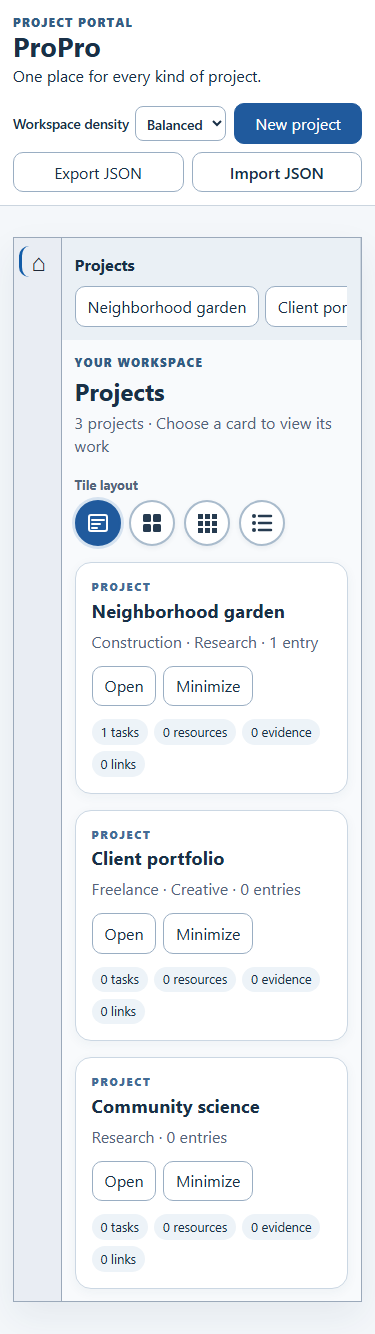
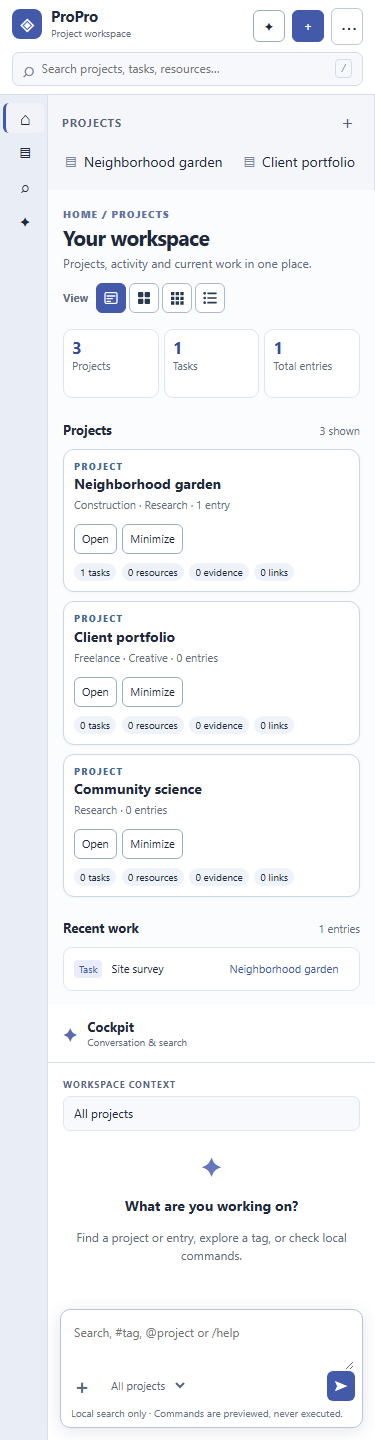
feat(propro): build refined workspace shell and local composer
Change-Level: RUN

Dev-Docs: updated

Validation: npm test 2/2; Chromium browser 6/6; viewport and axe checks at 375/390/768/1280/1440/1920; inspected 390/1280/1440 screenshots

diff --git a/styles.css b/styles.css
@@ -7,12 +7,6 @@ button:focus-visible, input:focus-visible, select:focus-visible, .import-label:f
 .header-actions > label:first-child { display:flex; align-items:center; gap:.4rem; font-size:.85rem; }
 .header-actions select { color:var(--ink); background:#fff; border:1px solid #9aaec3; border-radius:8px; padding:.4rem; }
 .cockpit-workbench__activity-button[data-activity=home] span { display:inline-block; transform:scale(1.5); font-weight:700; }
-html[data-density=refined] .site-header { padding-block:.5rem; }
-html[data-density=refined] #content.cockpit-workbench__content { padding:.7rem; }
-html[data-density=refined] .cards { gap:.65rem; }
-html[data-density=refined] .project-card { border-radius:10px; padding:.7rem; }
-html[data-density=refined] .project-card[data-selected=true] { padding:calc(.7rem - 1px); }
-html[data-density=refined] .card-meta { margin-top:.55rem; }
 .site-header h1 { margin:0; font-size:clamp(1.6rem,2.5vw,2rem); line-height:1.1; } .site-header p { margin:.15rem 0 0; } .eyebrow { margin:0 0 .2rem; text-transform:uppercase; letter-spacing:.12em; color:#335c84; font-size:.72rem; font-weight:800; }
 .header-actions,.row { display:flex; flex-wrap:wrap; align-items:center; gap:.5rem; } .import-label { display:inline-flex; align-items:center; position:relative; border:1px solid #9aaec3; background:#fff; border-radius:10px; padding:.48rem .75rem; cursor:pointer; } .import-label input { position:absolute; inset:0; width:100%; opacity:0; cursor:pointer; }
 .status { min-height:1.4rem; margin:.25rem clamp(.8rem,3vw,2.5rem); color:#245d3d; }
@@ -39,3 +33,116 @@ html[data-density=refined] .card-meta { margin-top:.55rem; }
 dialog { border:1px solid var(--border); border-radius:16px; width:min(92vw,520px); max-height:90vh; overflow:auto; padding:1.4rem; color:var(--ink); } dialog::backdrop { background:#152c49aa; } dialog h2 { margin-top:0; } .stack { display:grid; gap:1rem; }
 @media(max-width:1050px) { #workbench { min-height:0; } #explorer.cockpit-workbench__explorer { display:block; } #explorer #project-nav { display:flex; gap:.35rem; overflow-x:auto; } #explorer .nav-project { width:auto; flex:0 0 auto; margin:0; } #explorer .hint { display:none; } }
 @media(max-width:600px) { .site-header { align-items:start; } .site-header h1 { font-size:1.7rem; } .header-actions { width:100%; } .header-actions button,.import-label { flex:1; justify-content:center; } .card-main { display:block; } .card-actions { justify-content:start; margin-top:.8rem; } .cards[data-mode=list] .card-main { display:block; } .cards[data-mode=list] .card-actions { margin-top:.4rem; } .content-head { align-items:start; } .layout-picker { justify-items:start; } }
+
+/* Refined Balanced: a compact workspace shell with a welcoming project surface. */
+:root[data-cockpit-theme="light"] { --ink:#20283b; --muted:#626d80; --border:#d9dfeb; --blue:#4359a9; --cockpit-activity-width:46px; --cockpit-explorer-width:204px; --cockpit-context-width:300px; --cockpit-border:#d9dfeb; --cockpit-surface-raised:#f1f3f8; --cockpit-focus:#4059b3; font:14px/1.42 "Segoe UI",Inter,system-ui,sans-serif; }
+body { background:#f5f6fa; }
+.sr-only { position:absolute; width:1px; height:1px; padding:0; margin:-1px; overflow:hidden; clip:rect(0,0,0,0); white-space:nowrap; border:0; }
+.site-header { min-height:54px; display:grid; grid-template-columns:minmax(165px,1fr) minmax(230px,450px) minmax(300px,1fr); padding:6px 16px; gap:16px; box-shadow:0 1px 0 #dce2eb; }
+.site-header h1 { font-size:15px; letter-spacing:-.02em; line-height:1.1; }
+.brand { display:flex; align-items:center; gap:9px; min-width:0; }
+.brand-mark { display:grid; place-items:center; width:30px; height:30px; border-radius:8px; background:#4359a9; color:white; font-size:20px; }
+.brand div { display:grid; gap:1px; }
+.brand div span { font-size:10px; color:var(--muted); }
+.global-search { display:flex; align-items:center; gap:7px; height:34px; padding:0 10px; border:1px solid #d5dce8; border-radius:7px; background:#f7f8fb; font-weight:400; }
+.global-search > span:first-child { font-size:20px; line-height:1; color:#75819a; }
+.global-search input { width:100%; border:0!important; outline:0!important; padding:0!important; background:transparent; font-size:12px; }
+.global-search:focus-within { outline:2px solid var(--blue); outline-offset:1px; }
+.global-search kbd { color:#8791a3; border:1px solid #d5dce8; border-radius:4px; padding:0 4px; font-size:11px; line-height:17px; }
+.header-actions { justify-self:end; flex-wrap:nowrap; }
+.header-actions > button,.more-actions summary { min-height:32px; padding:4px 9px; border-radius:6px; font-size:12px; white-space:nowrap; }
+.header-actions .primary { background:var(--blue); }
+.more-actions { position:relative; }
+.more-actions summary { display:grid; place-items:center; width:32px; list-style:none; border:1px solid #bdc8db; background:#fff; cursor:pointer; font-size:19px; }
+.more-actions summary::-webkit-details-marker { display:none; }
+.more-menu { position:absolute; z-index:20; top:36px; right:0; display:grid; gap:4px; min-width:150px; padding:7px; border:1px solid var(--border); border-radius:8px; background:#fff; box-shadow:0 12px 30px #25324c2b; }
+.more-menu button,.more-menu .import-label { justify-content:start; width:100%; min-height:34px; text-align:left; border:0; border-radius:5px; box-shadow:none; font-size:12px; }
+.status { min-height:0; margin:0; padding:0 16px; font-size:12px; }
+.status:not(:empty) { padding-block:5px; border-bottom:1px solid var(--border); }
+#workbench { margin:0; min-height:calc(100vh - 54px); border:0; box-shadow:none; }
+.cockpit-workbench__activity { padding:.55rem .2rem; background:#e9edf5; }
+.cockpit-workbench__activity-button { min-height:38px; font-size:19px; border-radius:6px; }
+.cockpit-workbench__activity-button[data-activity=home] span { transform:scale(1.3); }
+#explorer.cockpit-workbench__explorer { padding:12px 9px; background:#f4f6fa; }
+.explorer-head { display:flex; align-items:center; justify-content:space-between; padding:1px 5px 8px; }
+#explorer h2 { margin:0; font-size:11px; text-transform:uppercase; letter-spacing:.09em; color:#57637a; }
+.explorer-head button { padding:0; width:25px; height:25px; border:0; background:transparent; color:#57637a; font-size:18px; }
+.nav-project { display:flex; align-items:center; gap:7px; margin:2px 0; padding:6px 8px; min-height:32px; border:0; border-radius:5px; background:transparent; font-size:12px; }
+.nav-project span { color:#7b88a2; }
+.nav-project[aria-current=true] { background:#e2e8fa; color:#334c9b; }
+.hint { padding:6px; font-size:11px; }
+#content.cockpit-workbench__content { padding:22px clamp(16px,2vw,28px); background:#fbfcfe; }
+.content-head { align-items:center; margin-bottom:16px; }
+.content-head .eyebrow { font-size:10px; letter-spacing:.1em; color:#6473a3; }
+.content-head h2 { font-size:21px; font-weight:650; letter-spacing:-.03em; }
+.content-head .muted { font-size:12px; }
+.layout-picker { display:flex; align-items:center; gap:8px; }
+.layout-picker__label { font-size:11px; }
+.view-switch { gap:3px; }
+.view-switch button { width:30px; height:30px; border-radius:6px; border-width:1px; box-shadow:none; }
+.view-switch svg { width:16px; height:16px; }
+.view-switch button[aria-pressed=true] { box-shadow:none; }
+.overview-stats { display:grid; grid-template-columns:repeat(3,minmax(0,1fr)); gap:9px; margin:0 0 23px; }
+.overview-stats div { display:flex; flex-direction:column; gap:1px; min-height:69px; padding:9px 12px; background:#fff; border:1px solid #dfe4ee; border-radius:9px; }
+.overview-stats strong { font-size:20px; line-height:1.1; font-weight:650; color:#354c9a; }
+.overview-stats span { color:var(--muted); font-size:11px; }
+.section-head { display:flex; align-items:baseline; justify-content:space-between; margin-bottom:9px; }
+.section-head h3 { margin:0; font-size:13px; }
+.section-head span { color:var(--muted); font-size:11px; }
+.cards { gap:9px; grid-template-columns:repeat(auto-fit,minmax(min(100%,300px),1fr)); }
+.project-card,.cards[data-mode=mini] .project-card,.cards[data-mode=grid] .project-card { padding:11px; border-radius:11px; box-shadow:0 1px 3px #26344a0a; }
+.project-card[data-selected=true],.cards[data-mode=mini] .project-card[data-selected=true],.cards[data-mode=grid] .project-card[data-selected=true] { padding:10px; box-shadow:0 0 0 2px #4359a928; }
+.card-kicker { font-size:9px; }
+.project-card h3 { font-size:14px; margin:4px 0; }
+.card-summary { font-size:11px; }
+.card-actions button { padding:4px 7px; border-radius:6px; font-size:11px; }
+.card-meta { margin-top:9px; }
+.card-meta span { font-size:10px; padding:2px 6px; }
+.recent-work:not(:empty) { margin-top:22px; }
+.recent-work ul { margin:0; padding:0; list-style:none; border:1px solid #dfe4ee; border-radius:9px; background:#fff; }
+.recent-work li { display:flex; align-items:center; gap:9px; min-height:38px; padding:6px 10px; font-size:11px; }
+.recent-work li + li { border-top:1px solid #e8ecf3; }
+.recent-work li > span:nth-child(2) { min-width:0; flex:1; overflow-wrap:anywhere; }
+.recent-kind { padding:2px 5px; border-radius:4px; background:#e9edf9; color:#4058a6; font-size:10px; }
+.recent-work li button { border:0; background:transparent; color:#4058a6; font-size:11px; }
+.detail-panel { margin-top:18px; padding:16px; border-radius:10px; }
+.detail-head h2 { font-size:17px; }
+.detail-tabs button,.detail-body button,.rename-form button { font-size:12px; border-radius:6px; padding:5px 8px; }
+.empty { padding:25px; border-radius:10px; }
+#context.cockpit-workbench__context { display:flex; flex-direction:column; min-width:0; background:#fff; }
+#context[hidden] { display:none!important; }
+.context-head { display:flex; align-items:center; gap:9px; padding:13px 14px; border-bottom:1px solid var(--border); }
+.context-icon { color:#596ab0; font-size:20px; }
+.context-head h2 { margin:0; font-size:13px; line-height:1.2; }
+.context-head p { margin:1px 0 0; font-size:10px; color:var(--muted); }
+.context-content { flex:1; min-height:120px; padding:15px; overflow:auto; }
+.context-eyebrow { margin:0 0 5px; font-size:9px; font-weight:700; letter-spacing:.1em; color:#596683; }
+.context-project { padding:8px 10px; border:1px solid #e0e5ee; border-radius:7px; background:#f8f9fc; font-size:12px; }
+.context-welcome { margin:38px 4px 0; text-align:center; }
+.context-spark { font-size:28px; color:#6577bc; }
+.context-welcome h3 { font-size:14px; margin:10px 0 5px; }
+.context-welcome p { color:var(--muted); font-size:12px; line-height:1.5; }
+#composer-results { margin-top:18px; font-size:12px; }
+#composer-results p { margin:0 0 7px; }
+#composer-results ul { list-style:none; margin:0; padding:0; }
+#composer-results li { display:grid; gap:2px; border-top:1px solid var(--border); padding:5px 0; }
+#composer-results li button { text-align:left; border:0; background:transparent; color:#4058a6; padding:2px; font-size:12px; }
+#composer-results small { color:var(--muted); padding-left:2px; }
+.composer { margin:12px; padding:7px; border:1px solid #b8c3db; border-radius:10px; box-shadow:0 3px 16px #263b6420; }
+.composer:focus-within { outline:2px solid #4359a9; outline-offset:1px; }
+.composer textarea { display:block; width:100%; min-height:54px; padding:6px; border:0; resize:vertical; outline:0; background:transparent; color:var(--ink); font-family:inherit; font-size:12px; line-height:1.5; }
+.composer textarea:focus-visible { outline:0; }
+.composer-tools { display:flex; align-items:center; gap:5px; }
+.attach-button { position:relative; display:grid; place-items:center; width:28px; height:28px; border-radius:6px; cursor:pointer; font-size:20px; color:#576783; }
+.attach-button:hover { background:#eef1f8; }
+.attach-button:focus-within { outline:2px solid var(--blue); }
+.attach-button input { position:absolute; inset:0; opacity:0; width:100%; cursor:pointer; }
+.composer-tools select { max-width:145px; padding:4px 6px; border:0; background:transparent; color:#576783; font-size:11px; }
+.composer-submit { margin-left:auto; width:28px; height:28px; padding:0; border:0; border-radius:6px; background:var(--blue); color:white; }
+.composer-note { margin:5px 3px 0; color:#68748a; font-size:10px; }
+.composer-attachments { display:flex; flex-wrap:wrap; gap:4px; }
+.attachment-chip { display:inline-flex; align-items:center; gap:3px; max-width:100%; padding:2px 4px; background:#edf0fa; border-radius:5px; font-size:10px; overflow-wrap:anywhere; }
+.attachment-chip button { border:0; background:transparent; padding:0 2px; }
+@media(max-width:1050px) { #workbench { min-height:0; } #context.cockpit-workbench__context { min-height:330px; } .context-welcome { margin-top:15px; } }
+@media(max-width:700px) { .site-header { grid-template-columns:1fr auto; gap:7px; padding:8px 12px; } .global-search { grid-column:1/-1; grid-row:2; width:100%; } .header-actions { grid-column:2; grid-row:1; } .header-actions #toggle-context span,.header-actions #new-project span { display:none; } .header-actions > button { width:32px; } #content.cockpit-workbench__content { padding:15px; } .content-head { align-items:start; } .overview-stats { gap:5px; } .overview-stats div { padding:8px; } .overview-stats strong { font-size:17px; } }
+@media(max-width:420px) { .content-head { display:block; } .layout-picker { margin-top:11px; } .cards { grid-template-columns:1fr; } .project-card { padding:10px; } }

diff --git a/index.html b/index.html
@@ -9,14 +9,15 @@
 </head>
 <body>
   <header class="site-header">
-    <div><p class="eyebrow">Project Portal</p><h1>ProPro</h1><p>One place for every kind of project.</p></div>
-    <div class="header-actions"><label for="density">Workspace density<select id="density"><option value="balanced">Balanced</option><option value="refined">Refined</option></select></label><button id="new-project" class="primary" type="button">New project</button><button id="export" type="button">Export JSON</button><label class="import-label">Import JSON<input id="import" type="file" accept="application/json,.json"></label></div>
+    <div class="brand"><span class="brand-mark" aria-hidden="true">◈</span><div><h1>ProPro</h1><span>Project workspace</span></div></div>
+    <label class="global-search"><span aria-hidden="true">⌕</span><span class="sr-only">Search projects</span><input id="global-search" type="search" placeholder="Search projects, tasks, resources…" autocomplete="off"><kbd>/</kbd></label>
+    <div class="header-actions"><button id="toggle-context" type="button" aria-label="Toggle conversation pane" aria-controls="context" aria-expanded="true" title="Toggle conversation pane">✦ <span>Conversation</span></button><button id="new-project" class="primary" type="button">＋ <span>New project</span></button><details class="more-actions"><summary aria-label="More project actions" title="More project actions">⋯</summary><div class="more-menu"><button id="export" type="button">Export JSON</button><label class="import-label">Import JSON<input id="import" type="file" accept="application/json,.json"></label></div></details></div>
   </header>
   <p id="message" class="status" role="status" aria-live="polite"></p>
   <main id="workbench" aria-label="Project workspace">
-    <aside id="explorer" aria-label="Project navigation"><h2>Projects</h2><div id="project-nav"></div><p class="hint">Saved in this browser. Export a backup regularly.</p></aside>
-    <section id="content" aria-label="Project dashboard"><div class="content-head"><div><p class="eyebrow">Your workspace</p><h2 id="dashboard-heading" tabindex="-1">Projects</h2><p id="project-count" class="muted"></p></div><div class="layout-picker"><span class="layout-picker__label" id="layout-label">Tile layout</span><div class="view-switch" role="group" aria-labelledby="layout-label"><button type="button" data-mode="large" aria-label="Large tiles" title="Large tiles"><svg viewBox="0 0 24 24" aria-hidden="true" focusable="false"><rect x="3" y="4" width="18" height="16" rx="2" fill="none" stroke="currentColor" stroke-width="2"/><path d="M6 9h12M6 13h8M6 17h5" fill="none" stroke="currentColor" stroke-width="2" stroke-linecap="round"/></svg></button><button type="button" data-mode="mini" aria-label="Mini tiles" title="Mini tiles"><svg viewBox="0 0 24 24" aria-hidden="true" focusable="false"><rect x="3" y="3" width="8" height="8" rx="1.5"/><rect x="13" y="3" width="8" height="8" rx="1.5"/><rect x="3" y="13" width="8" height="8" rx="1.5"/><rect x="13" y="13" width="8" height="8" rx="1.5"/></svg></button><button type="button" data-mode="grid" aria-label="Grid tiles" title="Grid tiles"><svg viewBox="0 0 24 24" aria-hidden="true" focusable="false"><path d="M3 3h5v5H3zm7 0h5v5h-5zm7 0h5v5h-5zM3 10h5v5H3zm7 0h5v5h-5zm7 0h5v5h-5zM3 17h5v5H3zm7 0h5v5h-5zm7 0h5v5h-5z"/></svg></button><button type="button" data-mode="list" aria-label="List tiles" title="List tiles"><svg viewBox="0 0 24 24" aria-hidden="true" focusable="false"><circle cx="4" cy="5" r="2"/><circle cx="4" cy="12" r="2"/><circle cx="4" cy="19" r="2"/><path d="M9 5h12M9 12h12M9 19h12" fill="none" stroke="currentColor" stroke-width="2.5" stroke-linecap="round"/></svg></button></div></div></div><div id="cards" class="cards"></div><div id="detail"></div></section>
-    <aside id="context" aria-label="Context panel"></aside>
+    <aside id="explorer" aria-label="Project navigation"><div class="explorer-head"><h2>Projects</h2><button type="button" data-new aria-label="Add project" title="Add project">＋</button></div><div id="project-nav"></div><p class="hint">Saved locally. Export a backup from the ⋯ menu.</p></aside>
+    <section id="content" aria-label="Project dashboard"><div class="content-head"><div><p class="eyebrow">HOME / PROJECTS</p><h2 id="dashboard-heading" tabindex="-1">Your workspace</h2><p id="project-count" class="muted"></p></div><div class="layout-picker"><span class="layout-picker__label" id="layout-label">View</span><div class="view-switch" role="group" aria-labelledby="layout-label"><button type="button" data-mode="large" aria-label="Large tiles" title="Large tiles"><svg viewBox="0 0 24 24" aria-hidden="true" focusable="false"><rect x="3" y="4" width="18" height="16" rx="2" fill="none" stroke="currentColor" stroke-width="2"/><path d="M6 9h12M6 13h8M6 17h5" fill="none" stroke="currentColor" stroke-width="2" stroke-linecap="round"/></svg></button><button type="button" data-mode="mini" aria-label="Mini tiles" title="Mini tiles"><svg viewBox="0 0 24 24" aria-hidden="true" focusable="false"><rect x="3" y="3" width="8" height="8" rx="1.5"/><rect x="13" y="3" width="8" height="8" rx="1.5"/><rect x="3" y="13" width="8" height="8" rx="1.5"/><rect x="13" y="13" width="8" height="8" rx="1.5"/></svg></button><button type="button" data-mode="grid" aria-label="Grid tiles" title="Grid tiles"><svg viewBox="0 0 24 24" aria-hidden="true" focusable="false"><path d="M3 3h5v5H3zm7 0h5v5h-5zm7 0h5v5h-5zM3 10h5v5H3zm7 0h5v5h-5zm7 0h5v5h-5zM3 17h5v5H3zm7 0h5v5h-5zm7 0h5v5h-5z"/></svg></button><button type="button" data-mode="list" aria-label="List tiles" title="List tiles"><svg viewBox="0 0 24 24" aria-hidden="true" focusable="false"><circle cx="4" cy="5" r="2"/><circle cx="4" cy="12" r="2"/><circle cx="4" cy="19" r="2"/><path d="M9 5h12M9 12h12M9 19h12" fill="none" stroke="currentColor" stroke-width="2.5" stroke-linecap="round"/></svg></button></div></div></div><div id="overview-stats" class="overview-stats" aria-label="Workspace overview"></div><div class="section-head"><h3>Projects</h3><span id="section-count"></span></div><div id="cards" class="cards"></div><section id="recent-work" class="recent-work" aria-label="Recent work"></section><div id="detail"></div></section>
+    <aside id="context" aria-label="Conversation and search"><div class="context-head"><span class="context-icon" aria-hidden="true">✦</span><div><h2>Cockpit</h2><p>Conversation &amp; search</p></div></div><div class="context-content"><p class="context-eyebrow">WORKSPACE CONTEXT</p><div id="context-project" class="context-project">All projects</div><div class="context-welcome"><span class="context-spark" aria-hidden="true">✦</span><h3>What are you working on?</h3><p>Find a project or entry, explore a tag, or check local commands.</p></div><div id="composer-results" role="status" aria-live="polite"></div></div><form id="composer" class="composer"><label for="composer-input" class="sr-only">Ask or search workspace</label><textarea id="composer-input" rows="2" placeholder="Search, #tag, @project or /help"></textarea><div id="composer-attachments" class="composer-attachments"></div><div class="composer-tools"><label class="attach-button" title="Add attachment" aria-label="Add attachment">＋<input id="composer-files" type="file" multiple></label><select id="composer-scope" aria-label="Search scope"><option value="all">All projects</option><option value="projects">Projects</option><option value="entries">Entries</option></select><button type="submit" class="composer-submit" aria-label="Search workspace" title="Search workspace">➤</button></div><p class="composer-note">Local search only · Commands are previewed, never executed.</p></form></aside>
   </main>
   <dialog id="project-dialog" aria-labelledby="create-heading"><form id="project-form" class="stack"><h2 id="create-heading">Create project</h2><label>Project name<input name="name" maxlength="200" required placeholder="e.g. Neighborhood garden"></label><fieldset><legend>Capabilities (optional)</legend><div id="create-caps" class="cap-options"></div></fieldset><div class="row"><button class="primary" type="submit">Create project</button><button id="cancel-project" type="button">Cancel</button></div></form></dialog>
   <dialog id="import-dialog" aria-labelledby="import-heading"><h2 id="import-heading">Replace saved projects?</h2><p>Importing this file will replace all projects saved in this browser. Export a backup first if you need one.</p><div class="row"><button id="confirm-import" class="primary" type="button">Replace projects</button><button id="cancel-import" type="button">Cancel</button></div></dialog>

diff --git a/docs/PROP-CKP-001B-IMPLEMENTATION.md b/docs/PROP-CKP-001B-IMPLEMENTATION.md
@@ -48,3 +48,11 @@ Chromium verification: 2 model tests and 6 browser tests passed; the browser sui
 - Firefox viewport and axe checks need a working resize in this Windows Playwright environment.
 - Generic Cockpit GUI collection API requires a second distinct consumer, compatibility review, package/version decision and approval before promotion. This implementation makes no new Cockpit GUI API claim.
 - Rights/provenance review before any public distribution; no merge, release or publication in this work.
+
+## Refined Balanced correction — 2026-11-05
+
+The density-selector slice above was too narrow for the adopted UX direction. It remains historical evidence, but the selector is removed from the current screen. Refined Balanced is now the default visual composition: compact top bar with global search, a four-action activity rail, project explorer, central dashboard with counts and cards, and a visible right Cockpit conversation/search pane. Home returns to the dashboard. The context pane can be hidden and restored.
+
+The composer now performs local project, entry, `#` capability-tag and `@` project-reference search. `/help` and `/status` are informational previews only; there is no CLI execution or AI provider connection. The `+` picker holds selected files locally and lets the user remove them; it does not upload or attach them to any execution request. Web/file search, full command routing, docking, bottom panels, detached windows and customizable themes remain future milestones. Version 1 project data and the packaged Cockpit GUI boundary are unchanged.
+
+Running screenshots are captured at 375×900, 390×844, 768×900, 1280×800, 1440×900 and 1920×900. Chromium browser checks cover the existing project flows, the new navigation/search/composer slice, overflow and automated axe accessibility checks. Human visual approval, screen-reader and task-based usability review remain open.
